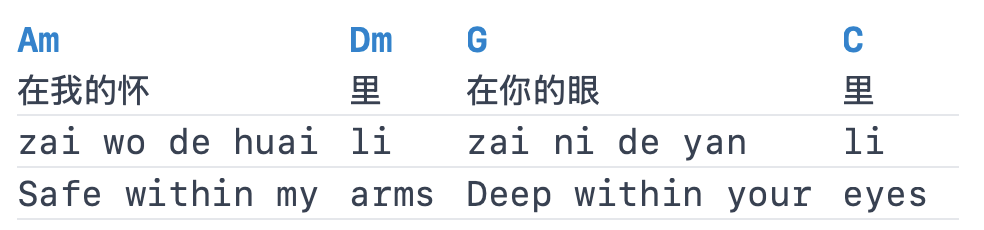
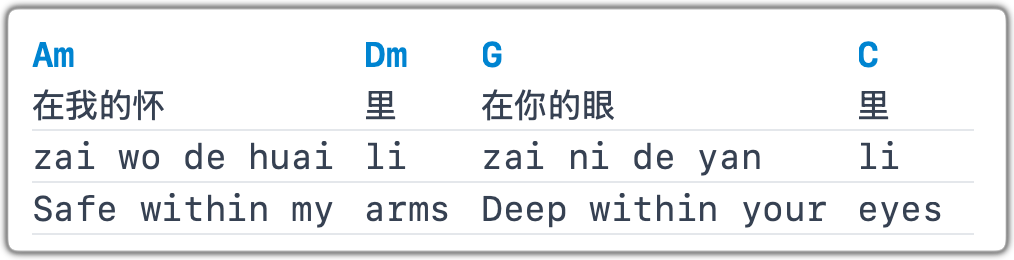
update readme

diff --git a/README.md b/README.md
@@ -1,6 +1,6 @@
-# A Multilingual Chord Viewer
-
 ![Example Screenshot](imgs/example.png)
+
+# A Multilingual Chord Viewer
 
 **Ever need to practice singing in a language that your teacher doesn't speak in?**
 